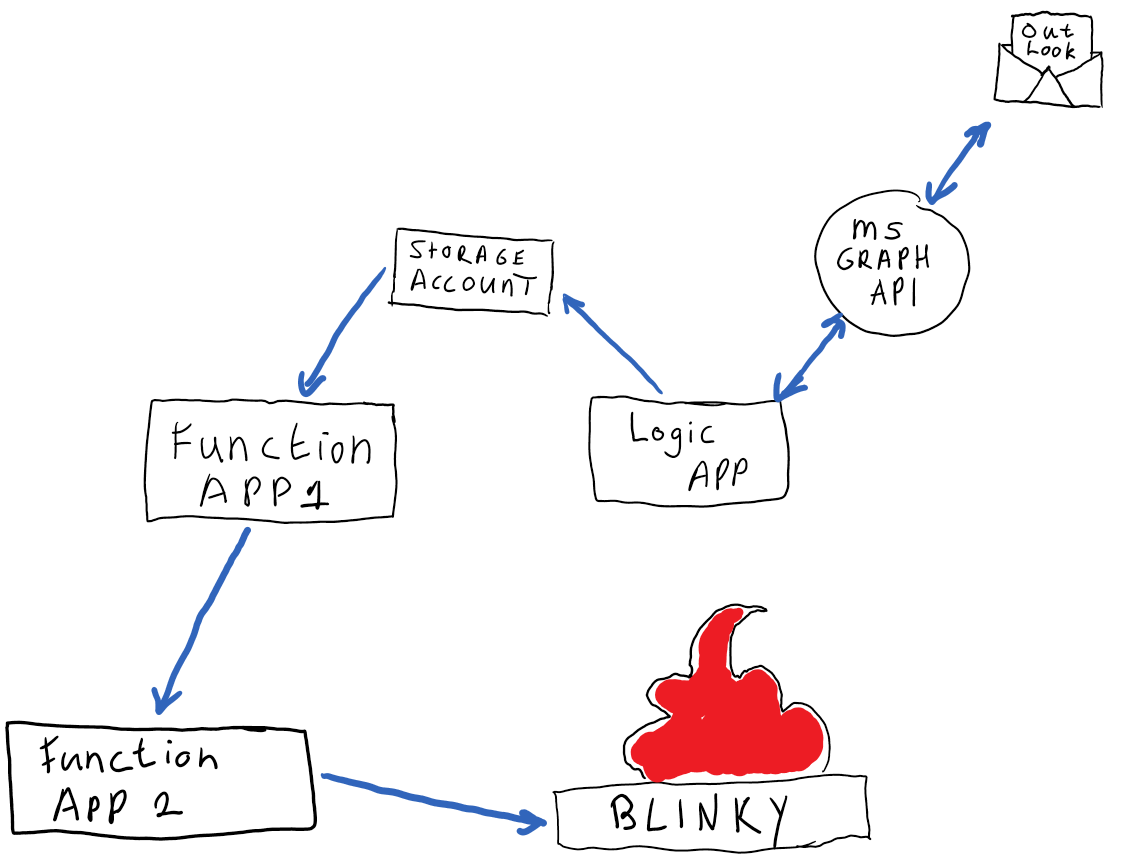
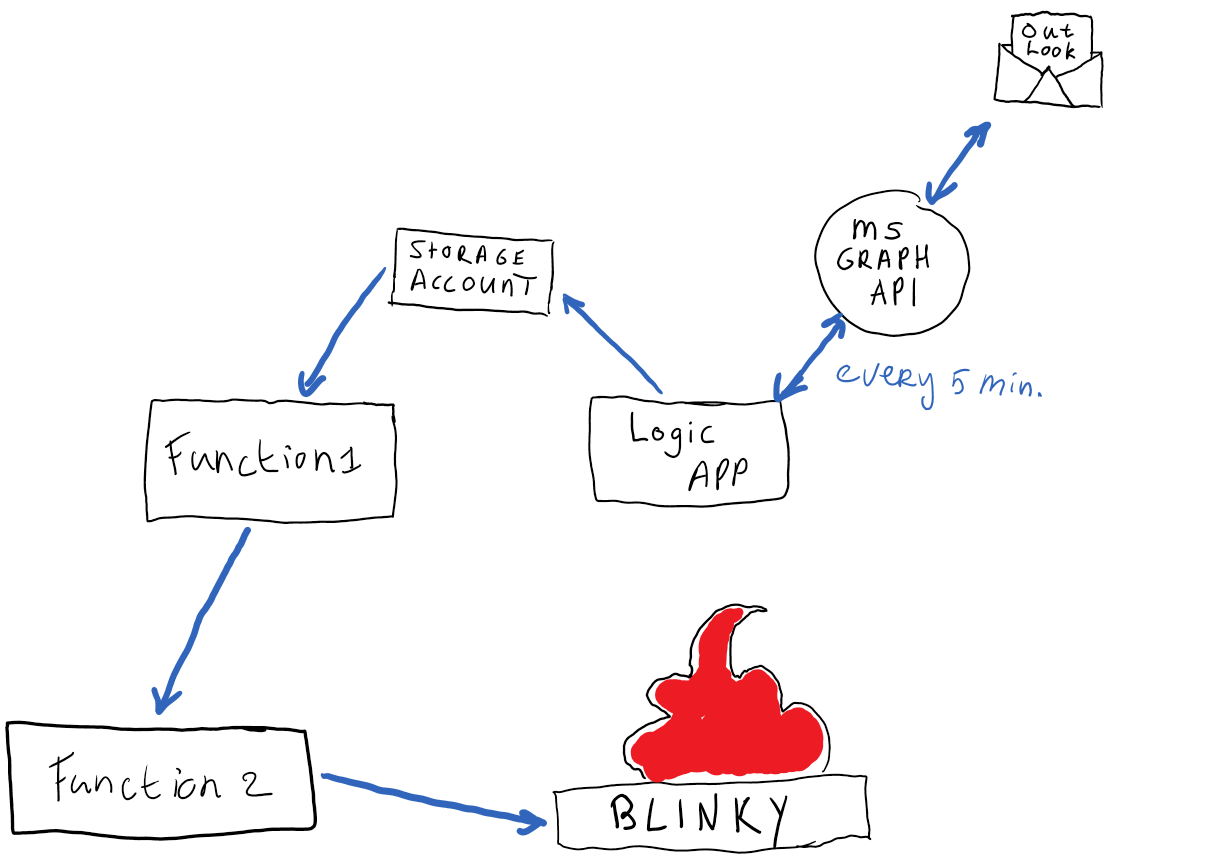
changed function app to azure function

Changed region(s): [[0.0, 0.0, 0.9859, 0.9954]]

diff --git a/_posts/2022-07-14-Control-an-IoT-device-based-on-Microsoft-Graph-API-data.-Azure-Logic-Apps-and-Azure-Functions-make-it-easy!.md b/_posts/2022-07-14-Control-an-IoT-device-based-on-Microsoft-Graph-API-data.-Azure-Logic-Apps-and-Azure-Functions-make-it-easy!.md
@@ -33,12 +33,12 @@ I came up with the following infrastructure to make this happen:
 
 - I use a Logic App to authenticate with my Outlook Calendar and retrieve all my appointments via the Office 365 Outlook "Get Events" action. This action leverages the Microsoft Graph API to get the data in. This Logic App runs every minute.
 - Next, I put the retrieved JSON file with all my appointments to a storage account. 
-- Finally the logic app sends a POST request to the Function App 1 to let it know it can grab new data from the storage account. 
+- Finally the logic app sends a POST request to the Function 1 to let it know it can grab new data from the storage account. 
 
 ![logic app](/images/blog-3.3.png)
 
-The next step is to pick up this raw data and do some calculations on it. This happens in the Function App 1. Using Powershell it picks up the data from the storage account and calculates if there are appointments within 5 minutes. Based on the results it sends a POST request out to the second Function App. 
-Below you see the script of Function App 1 (the script that I actually wrote myself):
+The next step is to pick up this raw data and do some calculations on it. This happens in the Function 1. Using Powershell it picks up the data from the storage account and calculates if there are appointments within 5 minutes. Based on the results it sends a POST request out to the second Function. 
+Below you see the script of Function 1 (the script that I actually wrote myself):
 
 ```powershell
 using namespace System.Net
@@ -109,9 +109,9 @@ Push-OutputBinding -Name Response -Value ([HttpResponseContext]@{
         Body       = $body
     })
 ```
-Lastly, the Function App 2 contains the code that actually sends the configuration of the LEDs towards Blinky. Based on the body of the POST request it either sends the config for a pulsing red light, or it turns Blinky into mode 0 which effectively turns the light off. 
+Lastly, the Function 2 contains the code that actually sends the configuration of the LEDs towards Blinky. Based on the body of the POST request it either sends the config for a pulsing red light, or it turns Blinky into mode 0 which effectively turns the light off. 
 This works because my Blinky is registered in Azure IoT Hub. In this solution lives the "digital twin" of the physical device where the Azure Function 2 can talk to. By calling the digital twin it sends the config for the LEDs towards the physical device itself (using wifi). 
 ## Conclusion
-What I think is cool about this little project, is that with some easy-to-use tools like the Logic- and Function Apps, I made my plan a reality with no advanced coding skills required. When I started thinking about how this should work, I was struggling with how to authenticate to my personal Calendar and thought about writing one big script to do all the work. The moment I took a step back and looked at what Azure had to offer out-of-the-box, it turned out I could do this simpler, secure and surprisingly stable as well: since this application is live it kept on running ever since!
+What I think is cool about this little project, is that with some easy-to-use tools like the Logic Apps and Azure Functions, I made my plan a reality with no advanced coding skills required. When I started thinking about how this should work, I was struggling with how to authenticate to my personal Calendar and thought about writing one big script to do all the work. The moment I took a step back and looked at what Azure had to offer out-of-the-box, it turned out I could do this simpler, secure and surprisingly stable as well: since this application is live it kept on running ever since!
 
 To me this is the power of the low code solutions within the Azure ecosystem: Let Azure do the work for you and make powerful cloud computing solutions accessible for everybody.
